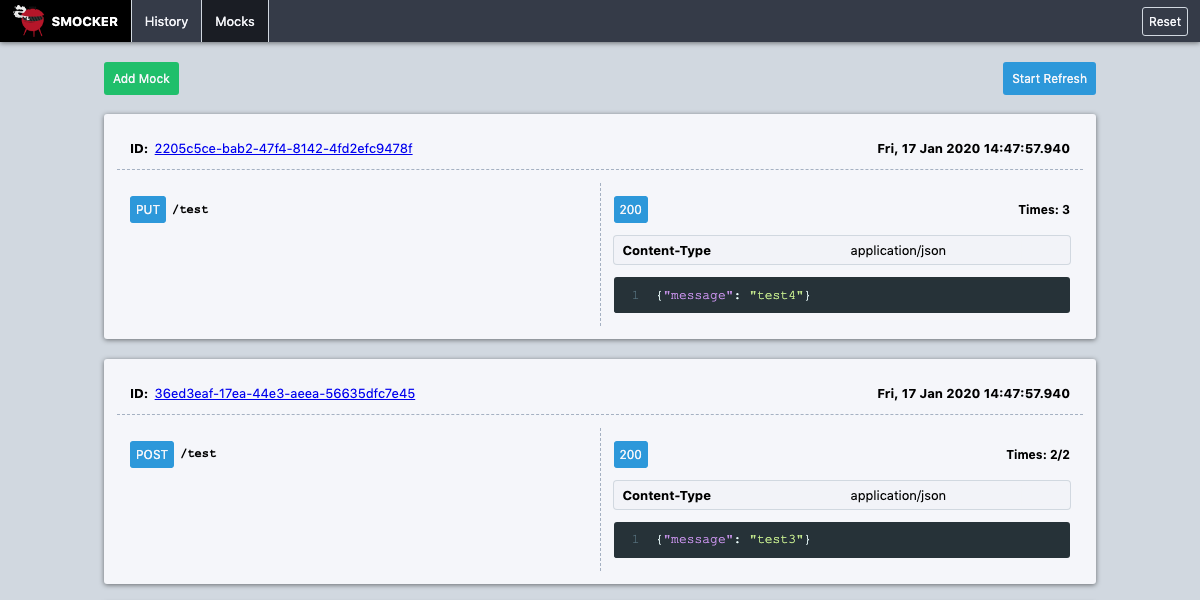
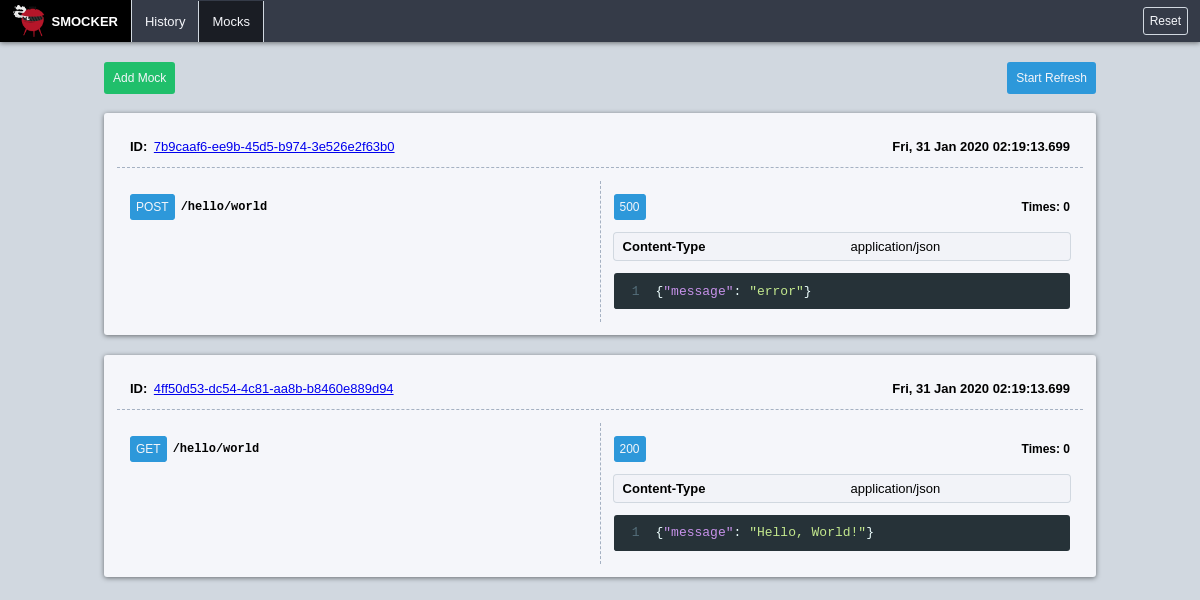
feat: use axios and puppeteer to generate all screenshots

diff --git a/docs/refresh-screenshots.js b/docs/refresh-screenshots.js
@@ -1,30 +1,101 @@
 const puppeteer = require("puppeteer");
 const path = require("path");
+const axios = require("axios");
 
-(async () => {
+const screenshots_dir = path.join(__dirname, ".vuepress/public/screenshots/");
+const smockerAdminHost = "http://localhost:8081";
+const smockerServerHost = "http://localhost:8080";
+
+const mocks = `
+- request:
+    method: GET
+    path: /hello/world
+  response:
+    status: 200
+    headers:
+      Content-Type: application/json
+    body: >
+      {"message": "Hello, World!"}
+- request:
+    method: POST
+    path: /hello/world
+  response:
+    status: 500
+    headers:
+      Content-Type: application/json
+    body: >
+      {"message": "error"}
+`;
+
+const screenshotElement = async ({ page, name, selector, padding = 0 }) => {
+  const rect = await page.evaluate(selector => {
+    const element = document.querySelector(selector);
+    const { x, y, width, height } = element.getBoundingClientRect();
+    return { left: x, top: y, width, height, id: element.id };
+  }, selector);
+
+  return await page.screenshot({
+    path: screenshots_dir + name,
+    clip: {
+      x: rect.left - padding,
+      y: rect.top - padding,
+      width: rect.width + padding * 2,
+      height: rect.height + padding * 2
+    }
+  });
+};
+
+const screenshotPage = async (page, name) => {
+  return await page.screenshot({ path: screenshots_dir + name });
+};
+
+async function main() {
   const browser = await puppeteer.launch();
   const page = await browser.newPage();
-  page.setViewport({
-    width: 1200,
-    height: 600
-  });
+  page.setViewport({ width: 1200, height: 600 });
 
-  await page.goto("http://localhost:8081/pages/history");
-  await page.click("#date-order");
-  await page.screenshot({
-    path: path.join(
-      __dirname,
-      ".vuepress/public/screenshots/screenshot-history.png"
-    )
-  });
+  // Screenshot empty history
+  await axios.post(smockerAdminHost + "/reset");
+  await page.goto(smockerAdminHost + "/pages/history");
+  await screenshotPage(page, "screenshot-empty-history.png");
 
-  await page.goto("http://localhost:8081/pages/mocks");
-  await page.screenshot({
-    path: path.join(
-      __dirname,
-      ".vuepress/public/screenshots/screenshot-mocks.png"
-    )
+  // Screenshot mocks
+  await axios.post(smockerAdminHost + "/mocks", mocks, {
+    headers: { "Content-Type": "application/x-yaml" }
+  });
+  await page.goto(smockerAdminHost + "/pages/mocks");
+  await page.screenshot({ path: screenshots_dir + "screenshot-mocks.png" });
+
+  // Screenshot history
+  await axios.get(smockerServerHost + "/hello/world");
+  try {
+    await axios.post(smockerServerHost + "/hello/world"); //ignore legit error
+  } catch {}
+  await page.goto(smockerAdminHost + "/pages/history");
+  await screenshotPage(page, "screenshot-history.png");
+
+  // Screenshot history cards
+  await screenshotElement({
+    page,
+    name: "screenshot-hello-world-200.png",
+    selector: ".entry:nth-child(3)"
+  });
+  try {
+    await axios.delete(smockerServerHost + "/hello/world"); //ignore legit error
+  } catch {}
+  await page.reload({ waitUntil: ["networkidle0", "domcontentloaded"] });
+  await screenshotElement({
+    page,
+    name: "screenshot-hello-world-666.png",
+    selector: ".entry:nth-child(2)"
   });
 
   await browser.close();
-})();
+}
+
+main()
+  .then(() => process.exit(0))
+  .catch(e => {
+    console.log("err: " + e);
+    process.exit(1);
+  });
